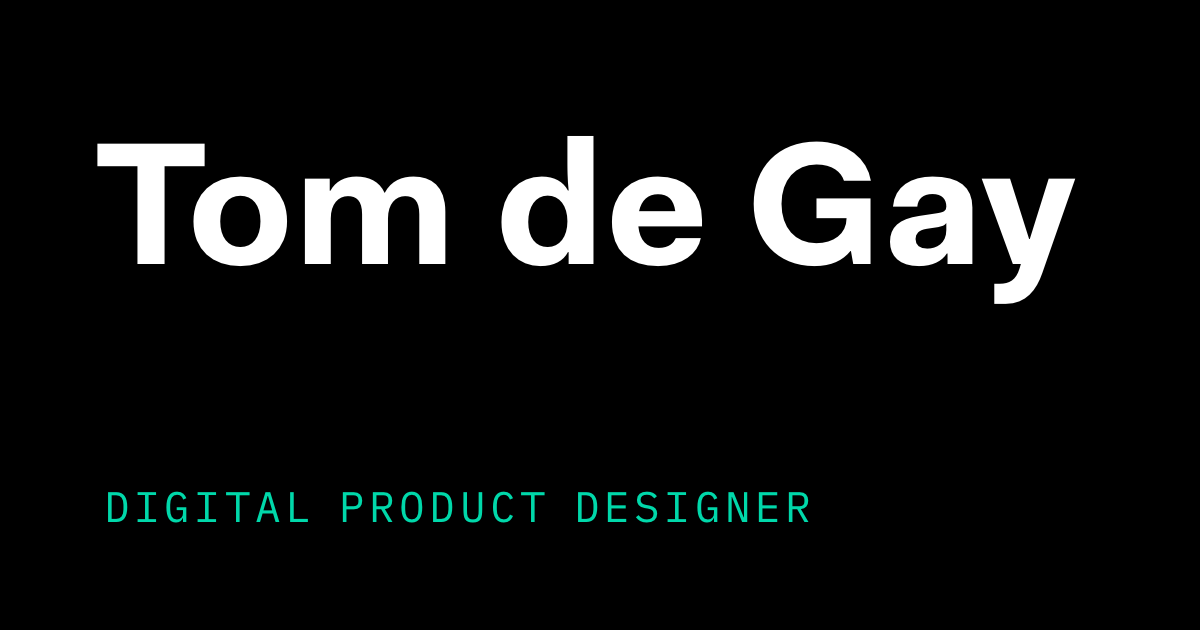
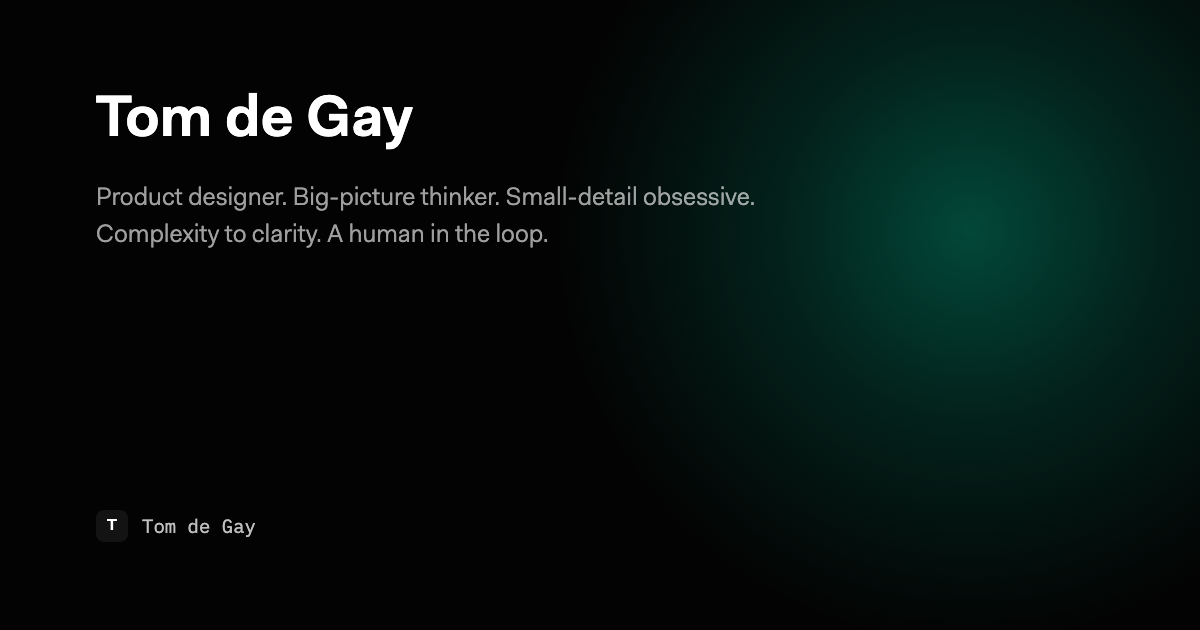
Generate branded OG images for every page
Built a consistent card template (dark gradient, teal kicker, Fakt
Blond title, muted subtitle, "Tom de Gay" byline) matching the style
already used for two of the six case studies, and extended it to all
thirteen live pages: home, about, contact, approach, ai, design-craft,
case-studies index, and all six case-study detail pages.

Rendered each at exactly 1200x630 via headless Chrome against a local
HTML template (parameterised by kicker/title/subtitle, not committed --
it was a one-off generation tool). This replaces a generic shared card
used identically across 7 pages (with stale "Digital Product Designer"
copy) and four ad-hoc, unbranded product screenshots used as og:image
on the Validation, Pipelines, Image Insight and Zonefully case studies.
Also corrected og:image:width/height (some still referenced the old
screenshots' native dimensions) and rewrote every og:image:alt to
describe the new card instead of the old screenshot content.

diff --git a/case-studies/validation.html b/case-studies/validation.html
@@ -12,15 +12,15 @@
 <meta property="og:title" content="Closing the loop on data quality — Tom de Gay">
 <meta property="og:description" content="How Tom de Gay designed Quantemplate's validation tooling — row-level reporting, integrated corrections with a full audit trail, and automated data type checks.">
 <meta property="og:url" content="https://tomdegay.com/case-studies/validation">
-<meta property="og:image" content="https://tomdegay.com/case-studies/media/validation-corrections-preview.png">
-<meta property="og:image:width" content="1899">
-<meta property="og:image:height" content="1068">
-<meta property="og:image:alt" content="Quantemplate's validation report: flagged errors beside an editable corrections column, with the correction popup open on a row.">
+<meta property="og:image" content="https://tomdegay.com/case-studies/media/validation-og.png">
+<meta property="og:image:width" content="1200">
+<meta property="og:image:height" content="630">
+<meta property="og:image:alt" content="Closing the loop on data quality — a Quantemplate case study by Tom de Gay">
 
 <meta name="twitter:card" content="summary_large_image">
 <meta name="twitter:title" content="Closing the loop on data quality — Tom de Gay">
 <meta name="twitter:description" content="How Tom de Gay designed Quantemplate's validation tooling — row-level reporting, integrated corrections with a full audit trail, and automated data type checks.">
-<meta name="twitter:image" content="https://tomdegay.com/case-studies/media/validation-corrections-preview.png">
+<meta name="twitter:image" content="https://tomdegay.com/case-studies/media/validation-og.png">
 
 <link rel="icon" href="/tdg-favicon.svg" type="image/svg+xml">
 

diff --git a/case-studies/image-insight.html b/case-studies/image-insight.html
@@ -12,15 +12,15 @@
 <meta property="og:title" content="Making space for deeper reflection — Tom de Gay">
 <meta property="og:description" content="How Tom de Gay simplified Image Insight, a digital coaching tool that uses images to prompt reflection, into a calm, low-friction experience.">
 <meta property="og:url" content="https://tomdegay.com/case-studies/image-insight">
-<meta property="og:image" content="https://tomdegay.com/case-studies/media/image-insight-session-expanded.jpg">
-<meta property="og:image:width" content="2000">
-<meta property="og:image:height" content="1356">
-<meta property="og:image:alt" content="Image Insight's session expanded to full screen: the coach's question above the participant's three chosen images.">
+<meta property="og:image" content="https://tomdegay.com/case-studies/media/image-insight-og.png">
+<meta property="og:image:width" content="1200">
+<meta property="og:image:height" content="630">
+<meta property="og:image:alt" content="Making space for deeper reflection — an Image Insight case study by Tom de Gay">
 
 <meta name="twitter:card" content="summary_large_image">
 <meta name="twitter:title" content="Making space for deeper reflection — Tom de Gay">
 <meta name="twitter:description" content="How Tom de Gay simplified Image Insight, a digital coaching tool that uses images to prompt reflection, into a calm, low-friction experience.">
-<meta name="twitter:image" content="https://tomdegay.com/case-studies/media/image-insight-session-expanded.jpg">
+<meta name="twitter:image" content="https://tomdegay.com/case-studies/media/image-insight-og.png">
 
 <link rel="icon" href="/tdg-favicon.svg" type="image/svg+xml">
 

diff --git a/case-studies/pipelines.html b/case-studies/pipelines.html
@@ -12,15 +12,15 @@
 <meta property="og:title" content="Bringing clarity to complex data flows — Tom de Gay">
 <meta property="og:description" content="How Tom de Gay led the design and evolution of Quantemplate Pipelines — enterprise data processing made accessible through flexible, visual workflows.">
 <meta property="og:url" content="https://tomdegay.com/case-studies/pipelines">
-<meta property="og:image" content="https://tomdegay.com/case-studies/media/pipelines-card.jpg">
-<meta property="og:image:width" content="1122">
-<meta property="og:image:height" content="631">
-<meta property="og:image:alt" content="Quantemplate Pipelines: a colour-coded list of pipeline stages with connecting lines showing the data flow.">
+<meta property="og:image" content="https://tomdegay.com/case-studies/media/pipelines-og.png">
+<meta property="og:image:width" content="1200">
+<meta property="og:image:height" content="630">
+<meta property="og:image:alt" content="Bringing clarity to complex data flows — a Quantemplate case study by Tom de Gay">
 
 <meta name="twitter:card" content="summary_large_image">
 <meta name="twitter:title" content="Bringing clarity to complex data flows — Tom de Gay">
 <meta name="twitter:description" content="How Tom de Gay led the design and evolution of Quantemplate Pipelines — enterprise data processing made accessible through flexible, visual workflows.">
-<meta name="twitter:image" content="https://tomdegay.com/case-studies/media/pipelines-card.jpg">
+<meta name="twitter:image" content="https://tomdegay.com/case-studies/media/pipelines-og.png">
 
 <link rel="icon" href="/tdg-favicon.svg" type="image/svg+xml">
 

diff --git a/case-studies/zonefully.html b/case-studies/zonefully.html
@@ -12,15 +12,15 @@
 <meta property="og:title" content="Connecting long-term goals to everyday routines — Tom de Gay">
 <meta property="og:description" content="How Tom de Gay designed the UX and UI for Zonefully, a planning app that links long-term goals to recurring routines and a calendar.">
 <meta property="og:url" content="https://tomdegay.com/case-studies/zonefully">
-<meta property="og:image" content="https://tomdegay.com/case-studies/media/zonefully.jpg">
-<meta property="og:image:width" content="1400">
-<meta property="og:image:height" content="937">
-<meta property="og:image:alt" content="Zonefully's Programs screen: a list of training and meal routines beside a Recovery programme detail with its ordered routines.">
+<meta property="og:image" content="https://tomdegay.com/case-studies/media/zonefully-og.png">
+<meta property="og:image:width" content="1200">
+<meta property="og:image:height" content="630">
+<meta property="og:image:alt" content="Connecting long-term goals to everyday routines — a Zonefully case study by Tom de Gay">
 
 <meta name="twitter:card" content="summary_large_image">
 <meta name="twitter:title" content="Connecting long-term goals to everyday routines — Tom de Gay">
 <meta name="twitter:description" content="How Tom de Gay designed the UX and UI for Zonefully, a planning app that links long-term goals to recurring routines and a calendar.">
-<meta name="twitter:image" content="https://tomdegay.com/case-studies/media/zonefully.jpg">
+<meta name="twitter:image" content="https://tomdegay.com/case-studies/media/zonefully-og.png">
 
 <link rel="icon" href="/tdg-favicon.svg" type="image/svg+xml">
 

diff --git a/design-craft.html b/design-craft.html
@@ -12,15 +12,15 @@
 <meta property="og:title" content="Design craft — Tom de Gay">
 <meta property="og:description" content="Typography, colour and materials across Tom de Gay's work — the Quantemplate interface and brand, plus identity and exhibition design for the White Rainbow gallery and the Isokon Gallery.">
 <meta property="og:url" content="https://tomdegay.com/design-craft">
-<meta property="og:image" content="https://tomdegay.com/og-image.png">
+<meta property="og:image" content="https://tomdegay.com/media/og-design-craft.png">
 <meta property="og:image:width" content="1200">
 <meta property="og:image:height" content="630">
-<meta property="og:image:alt" content="Tom de Gay — Digital Product Designer">
+<meta property="og:image:alt" content="Design craft — Tom de Gay">
 
 <meta name="twitter:card" content="summary_large_image">
 <meta name="twitter:title" content="Design craft — Tom de Gay">
 <meta name="twitter:description" content="Typography, colour and materials across Tom de Gay's work — the Quantemplate interface and brand, plus identity and exhibition design for the White Rainbow gallery and the Isokon Gallery.">
-<meta name="twitter:image" content="https://tomdegay.com/og-image.png">
+<meta name="twitter:image" content="https://tomdegay.com/media/og-design-craft.png">
 
 <link rel="icon" href="/tdg-favicon.svg" type="image/svg+xml">
 

diff --git a/case-studies/feeds.html b/case-studies/feeds.html
@@ -12,7 +12,7 @@
 <meta property="og:title" content="Connecting organisations through data — Tom de Gay">
 <meta property="og:description" content="How Tom de Gay designed Feeds, Quantemplate's system for securely exchanging data between organisations.">
 <meta property="og:url" content="https://tomdegay.com/case-studies/feeds">
-<meta property="og:image" content="https://tomdegay.com/case-studies/media/connecting-organisations-og.jpg">
+<meta property="og:image" content="https://tomdegay.com/case-studies/media/feeds-og.png">
 <meta property="og:image:width" content="1200">
 <meta property="og:image:height" content="630">
 <meta property="og:image:alt" content="Connecting organisations through data — a Quantemplate case study by Tom de Gay">
@@ -20,7 +20,7 @@
 <meta name="twitter:card" content="summary_large_image">
 <meta name="twitter:title" content="Connecting organisations through data — Tom de Gay">
 <meta name="twitter:description" content="How Tom de Gay designed Feeds, Quantemplate's system for securely exchanging data between organisations.">
-<meta name="twitter:image" content="https://tomdegay.com/case-studies/media/connecting-organisations-og.jpg">
+<meta name="twitter:image" content="https://tomdegay.com/case-studies/media/feeds-og.png">
 
 <link rel="icon" href="/tdg-favicon.svg" type="image/svg+xml">
 

diff --git a/case-studies/column-mapping.html b/case-studies/column-mapping.html
@@ -12,7 +12,7 @@
 <meta property="og:title" content="Mapping inconsistent schemas at scale — Tom de Gay">
 <meta property="og:description" content="How Tom de Gay designed Quantemplate's column mapping engine, and later its semantic fingerprinting upgrade.">
 <meta property="og:url" content="https://tomdegay.com/case-studies/column-mapping">
-<meta property="og:image" content="https://tomdegay.com/case-studies/media/og-image.jpg">
+<meta property="og:image" content="https://tomdegay.com/case-studies/media/column-mapping-og.png">
 <meta property="og:image:width" content="1200">
 <meta property="og:image:height" content="630">
 <meta property="og:image:alt" content="Mapping inconsistent schemas at scale — a Quantemplate case study by Tom de Gay">
@@ -20,7 +20,7 @@
 <meta name="twitter:card" content="summary_large_image">
 <meta name="twitter:title" content="Mapping inconsistent schemas at scale — Tom de Gay">
 <meta name="twitter:description" content="How Tom de Gay designed Quantemplate's column mapping engine, and later its semantic fingerprinting upgrade.">
-<meta name="twitter:image" content="https://tomdegay.com/case-studies/media/og-image.jpg">
+<meta name="twitter:image" content="https://tomdegay.com/case-studies/media/column-mapping-og.png">
 
 <link rel="icon" href="/tdg-favicon.svg" type="image/svg+xml">
 

diff --git a/approach.html b/approach.html
@@ -12,15 +12,15 @@
 <meta property="og:title" content="Learning from wayfinding — Tom de Gay">
 <meta property="og:description" content="The design principles Tom de Gay brings to digital product design, shaped by a background in wayfinding for complex buildings.">
 <meta property="og:url" content="https://tomdegay.com/approach">
-<meta property="og:image" content="https://tomdegay.com/og-image.png">
+<meta property="og:image" content="https://tomdegay.com/media/og-approach.png">
 <meta property="og:image:width" content="1200">
 <meta property="og:image:height" content="630">
-<meta property="og:image:alt" content="Tom de Gay — Digital Product Designer">
+<meta property="og:image:alt" content="Learning from wayfinding — Tom de Gay's design principles">
 
 <meta name="twitter:card" content="summary_large_image">
 <meta name="twitter:title" content="Learning from wayfinding — Tom de Gay">
 <meta name="twitter:description" content="The design principles Tom de Gay brings to digital product design, shaped by a background in wayfinding for complex buildings.">
-<meta name="twitter:image" content="https://tomdegay.com/og-image.png">
+<meta name="twitter:image" content="https://tomdegay.com/media/og-approach.png">
 
 <link rel="icon" href="/tdg-favicon.svg" type="image/svg+xml">
 

diff --git a/about.html b/about.html
@@ -12,15 +12,15 @@
 <meta property="og:title" content="About — Tom de Gay">
 <meta property="og:description" content="Tom de Gay is a digital product designer based in London, Head of Design at Quantemplate and co-founder of the Isokon Gallery.">
 <meta property="og:url" content="https://tomdegay.com/about">
-<meta property="og:image" content="https://tomdegay.com/og-image.png">
+<meta property="og:image" content="https://tomdegay.com/media/og-about.png">
 <meta property="og:image:width" content="1200">
 <meta property="og:image:height" content="630">
-<meta property="og:image:alt" content="Tom de Gay — Digital Product Designer">
+<meta property="og:image:alt" content="About Tom de Gay, a digital product designer based in London">
 
 <meta name="twitter:card" content="summary_large_image">
 <meta name="twitter:title" content="About — Tom de Gay">
 <meta name="twitter:description" content="Tom de Gay is a digital product designer based in London, Head of Design at Quantemplate and co-founder of the Isokon Gallery.">
-<meta name="twitter:image" content="https://tomdegay.com/og-image.png">
+<meta name="twitter:image" content="https://tomdegay.com/media/og-about.png">
 
 <link rel="icon" href="/tdg-favicon.svg" type="image/svg+xml">
 

diff --git a/case-studies/index.html b/case-studies/index.html
@@ -12,15 +12,15 @@
 <meta property="og:title" content="Case Studies — Tom de Gay">
 <meta property="og:description" content="Case studies by Tom de Gay, a digital product designer specialising in design for AI, automation and complex domains.">
 <meta property="og:url" content="https://tomdegay.com/case-studies">
-<meta property="og:image" content="https://tomdegay.com/og-image.png">
+<meta property="og:image" content="https://tomdegay.com/media/og-case-studies.png">
 <meta property="og:image:width" content="1200">
 <meta property="og:image:height" content="630">
-<meta property="og:image:alt" content="Tom de Gay — Digital Product Designer">
+<meta property="og:image:alt" content="Case studies by Tom de Gay">
 
 <meta name="twitter:card" content="summary_large_image">
 <meta name="twitter:title" content="Case Studies — Tom de Gay">
 <meta name="twitter:description" content="Case studies by Tom de Gay, a digital product designer specialising in design for AI, automation and complex domains.">
-<meta name="twitter:image" content="https://tomdegay.com/og-image.png">
+<meta name="twitter:image" content="https://tomdegay.com/media/og-case-studies.png">
 
 <link rel="icon" href="/tdg-favicon.svg" type="image/svg+xml">
 

diff --git a/ai.html b/ai.html
@@ -12,15 +12,15 @@
 <meta property="og:title" content="Design and AI — Tom de Gay">
 <meta property="og:description" content="How Tom de Gay designs products where AI does real work, and how he builds with AI tools day to day.">
 <meta property="og:url" content="https://tomdegay.com/ai">
-<meta property="og:image" content="https://tomdegay.com/og-image.png">
+<meta property="og:image" content="https://tomdegay.com/media/og-ai.png">
 <meta property="og:image:width" content="1200">
 <meta property="og:image:height" content="630">
-<meta property="og:image:alt" content="Tom de Gay — Digital Product Designer">
+<meta property="og:image:alt" content="Design and AI — Tom de Gay">
 
 <meta name="twitter:card" content="summary_large_image">
 <meta name="twitter:title" content="Design and AI — Tom de Gay">
 <meta name="twitter:description" content="How Tom de Gay designs products where AI does real work, and how he builds with AI tools day to day.">
-<meta name="twitter:image" content="https://tomdegay.com/og-image.png">
+<meta name="twitter:image" content="https://tomdegay.com/media/og-ai.png">
 
 <link rel="icon" href="/tdg-favicon.svg" type="image/svg+xml">
 

diff --git a/contact.html b/contact.html
@@ -12,15 +12,15 @@
 <meta property="og:title" content="Contact — Tom de Gay">
 <meta property="og:description" content="Get in touch with Tom de Gay, a digital product designer based in London.">
 <meta property="og:url" content="https://tomdegay.com/contact">
-<meta property="og:image" content="https://tomdegay.com/og-image.png">
+<meta property="og:image" content="https://tomdegay.com/media/og-contact.png">
 <meta property="og:image:width" content="1200">
 <meta property="og:image:height" content="630">
-<meta property="og:image:alt" content="Tom de Gay — Digital Product Designer">
+<meta property="og:image:alt" content="Contact Tom de Gay">
 
 <meta name="twitter:card" content="summary_large_image">
 <meta name="twitter:title" content="Contact — Tom de Gay">
 <meta name="twitter:description" content="Get in touch with Tom de Gay, a digital product designer based in London.">
-<meta name="twitter:image" content="https://tomdegay.com/og-image.png">
+<meta name="twitter:image" content="https://tomdegay.com/media/og-contact.png">
 
 <link rel="icon" href="/tdg-favicon.svg" type="image/svg+xml">
 
